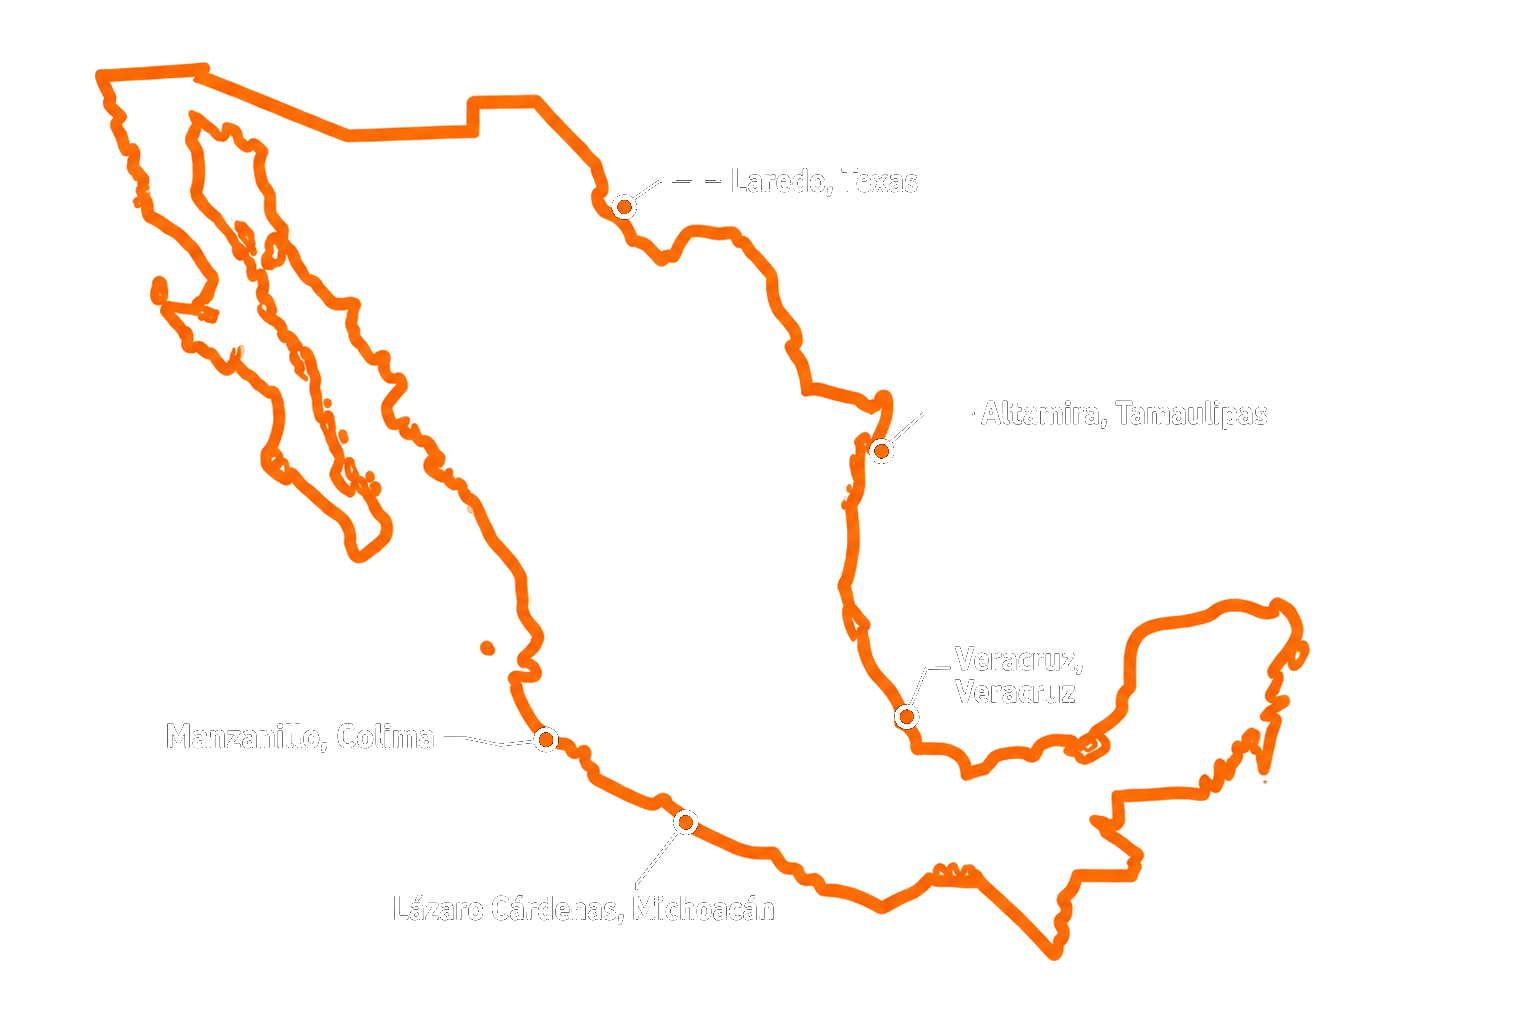
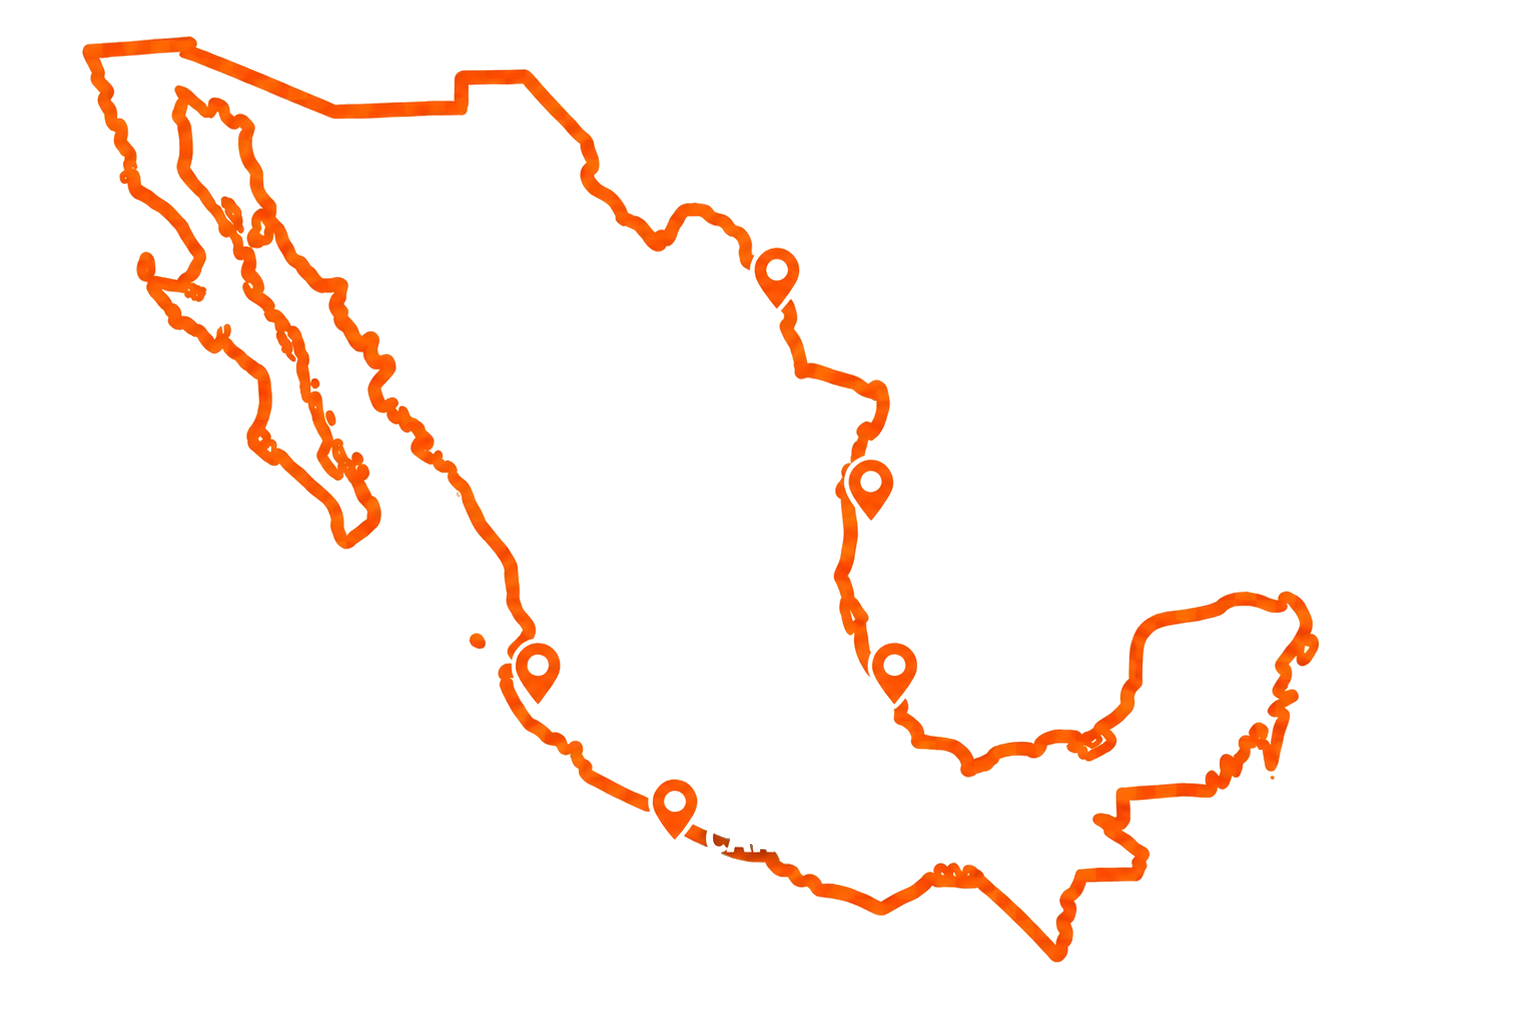
Add files via upload

diff --git a/index.html b/index.html
@@ -58,7 +58,7 @@
       </div>
       <div class="container hero-content">
         <p class="eyebrow">Logística multimodal · Terrestre / Aéreo / Marítimo / Ferroviario</p>
-        <h1>FoxLog mueve tu carga por el mundo con precisión y velocidad</h1>
+        <h1>Cargamos con lo importante, entregamos confianza</h1>
         <p class="hero-lead">
           FoxLog conecta origen y destino con una red propia y de aliados estratégicos.
           Rastreo en tiempo real, tarifas competitivas y un equipo experto que responde
@@ -113,7 +113,7 @@
           <div class="service-body">
             <span class="service-icon">🚛</span>
             <h3>Transporte terrestre</h3>
-            <p>Arrastre de contenedor y flete nacional.</p>
+            <p>Fletes nacionales / Impo-expo a USA.</p>
             <span class="service-more">Ver más →</span>
           </div>
         </article>
@@ -148,7 +148,7 @@
           </div>
           <div class="service-body">
             <span class="service-icon">🚆</span>
-            <h3>Transporte ferroviario</h3>
+            <h3>Carga contenerizada</h3>
             <p>Gran capacidad, rutas continentales.</p>
             <span class="service-more">Ver más →</span>
           </div>
@@ -177,16 +177,14 @@
 
     <div class="coverage-map">
       <img class="coverage-map-bg" src="assets/img/coverage-map.png" alt="" loading="lazy" aria-hidden="true">
-      <div class="coverage-map-overlay" aria-hidden="true"></div>
 
-      <svg class="coverage-map-svg" viewBox="0 0 1538 1023" preserveAspectRatio="xMidYMid meet" aria-hidden="true">
-        <path class="route" d="M626,205 L883,449" />
-        <path class="route" d="M626,205 L907,715" />
-        <path class="route" d="M626,205 L544,739" />
-        <path class="route" d="M626,205 L684,823" />
-      </svg>
+      <span class="coverage-label" style="left:50.5%; top:26.3%;">Laredo</span>
+      <span class="coverage-label" style="left:56.6%; top:47%;">Altamira, Tamaulipas</span>
+      <span class="coverage-label" style="left:58.1%; top:65%;">Veracruz</span>
+      <span class="coverage-label" style="left:34.9%; top:65%;">Manzanillo</span>
+      <span class="coverage-label" style="left:43.8%; top:78.3%;">Lázaro Cárdenas</span>
 
-      <p class="sr-only">Red de cobertura de FoxLog: puertos de Altamira, Veracruz, Manzanillo y Lázaro Cárdenas conectados con Laredo, Texas.</p>
+      <p class="sr-only">Red de cobertura de FoxLog: puertos de Laredo, Altamira, Veracruz, Manzanillo y Lázaro Cárdenas.</p>
     </div>
   </section>
 

diff --git a/assets/css/style.css b/assets/css/style.css
@@ -358,33 +358,21 @@ p { margin: 0 0 1em; color: var(--gray-600); }
   height: 100%;
   object-fit: cover;
 }
-.coverage-map-overlay {
-  position: absolute;
-  inset: 0;
-  background:
-    linear-gradient(180deg, rgba(11, 12, 15, 0.55) 0%, rgba(11, 12, 15, 0.25) 40%, rgba(11, 12, 15, 0.55) 100%),
-    linear-gradient(90deg, rgba(11, 12, 15, 0.35) 0%, rgba(11, 12, 15, 0.05) 50%, rgba(11, 12, 15, 0.35) 100%);
-}
-.coverage-map-svg {
-  position: absolute;
-  inset: 0;
-  width: 100%;
-  height: 100%;
-  display: block;
-  overflow: visible;
-}
 
-.route {
-  fill: none;
-  stroke: var(--orange);
-  stroke-width: 4.25;
-  stroke-linecap: round;
-  opacity: 0.95;
-  filter: drop-shadow(0 0 5px rgba(240, 100, 30, 0.7));
+.coverage-label {
+  position: absolute;
+  transform: translate(14px, -50%);
+  color: var(--white);
+  font-size: 0.85rem;
+  font-weight: 700;
+  letter-spacing: 0.02em;
+  white-space: nowrap;
+  text-shadow: 0 1px 3px rgba(0, 0, 0, 0.85), 0 0 12px rgba(0, 0, 0, 0.5);
 }
 
 @media (max-width: 640px) {
   .coverage-map { width: calc(100% - 24px); }
+  .coverage-label { font-size: 0.68rem; transform: translate(10px, -50%); }
 }
 
 /* ---------- Utility ---------- */

diff --git a/assets/js/script.js b/assets/js/script.js
@@ -180,7 +180,7 @@ const SERVICE_INFO = {
   terrestre: {
     icon: '🚛',
     title: 'Transporte terrestre',
-    desc: 'Nuestra especialidad: arrastre de contenedor del puerto a tu bodega o al ferrocarril, y flete nacional en las principales zonas del país. Importación y exportación directa hacia Laredo, Texas, el cruce fronterizo más importante para el comercio con Estados Unidos.',
+    desc: 'Expertos en arrastre de contenedores de los principales puertos y fletes nacionales en las principales zonas industriales del país. Importaciones y exportaciones a Estados Unidos.',
   },
   aereo: {
     icon: '✈',
@@ -194,8 +194,8 @@ const SERVICE_INFO = {
   },
   ferroviario: {
     icon: '🚆',
-    title: 'Transporte ferroviario',
-    desc: 'Alternativa sostenible y de alto tonelaje para cargas de gran volumen en rutas continentales, con menor costo por unidad transportada.',
+    title: 'Carga contenerizada',
+    desc: 'Realizamos el arrastre de contenedores marítimos a nivel nacional para importaciones y exportaciones.',
   },
 };
 
